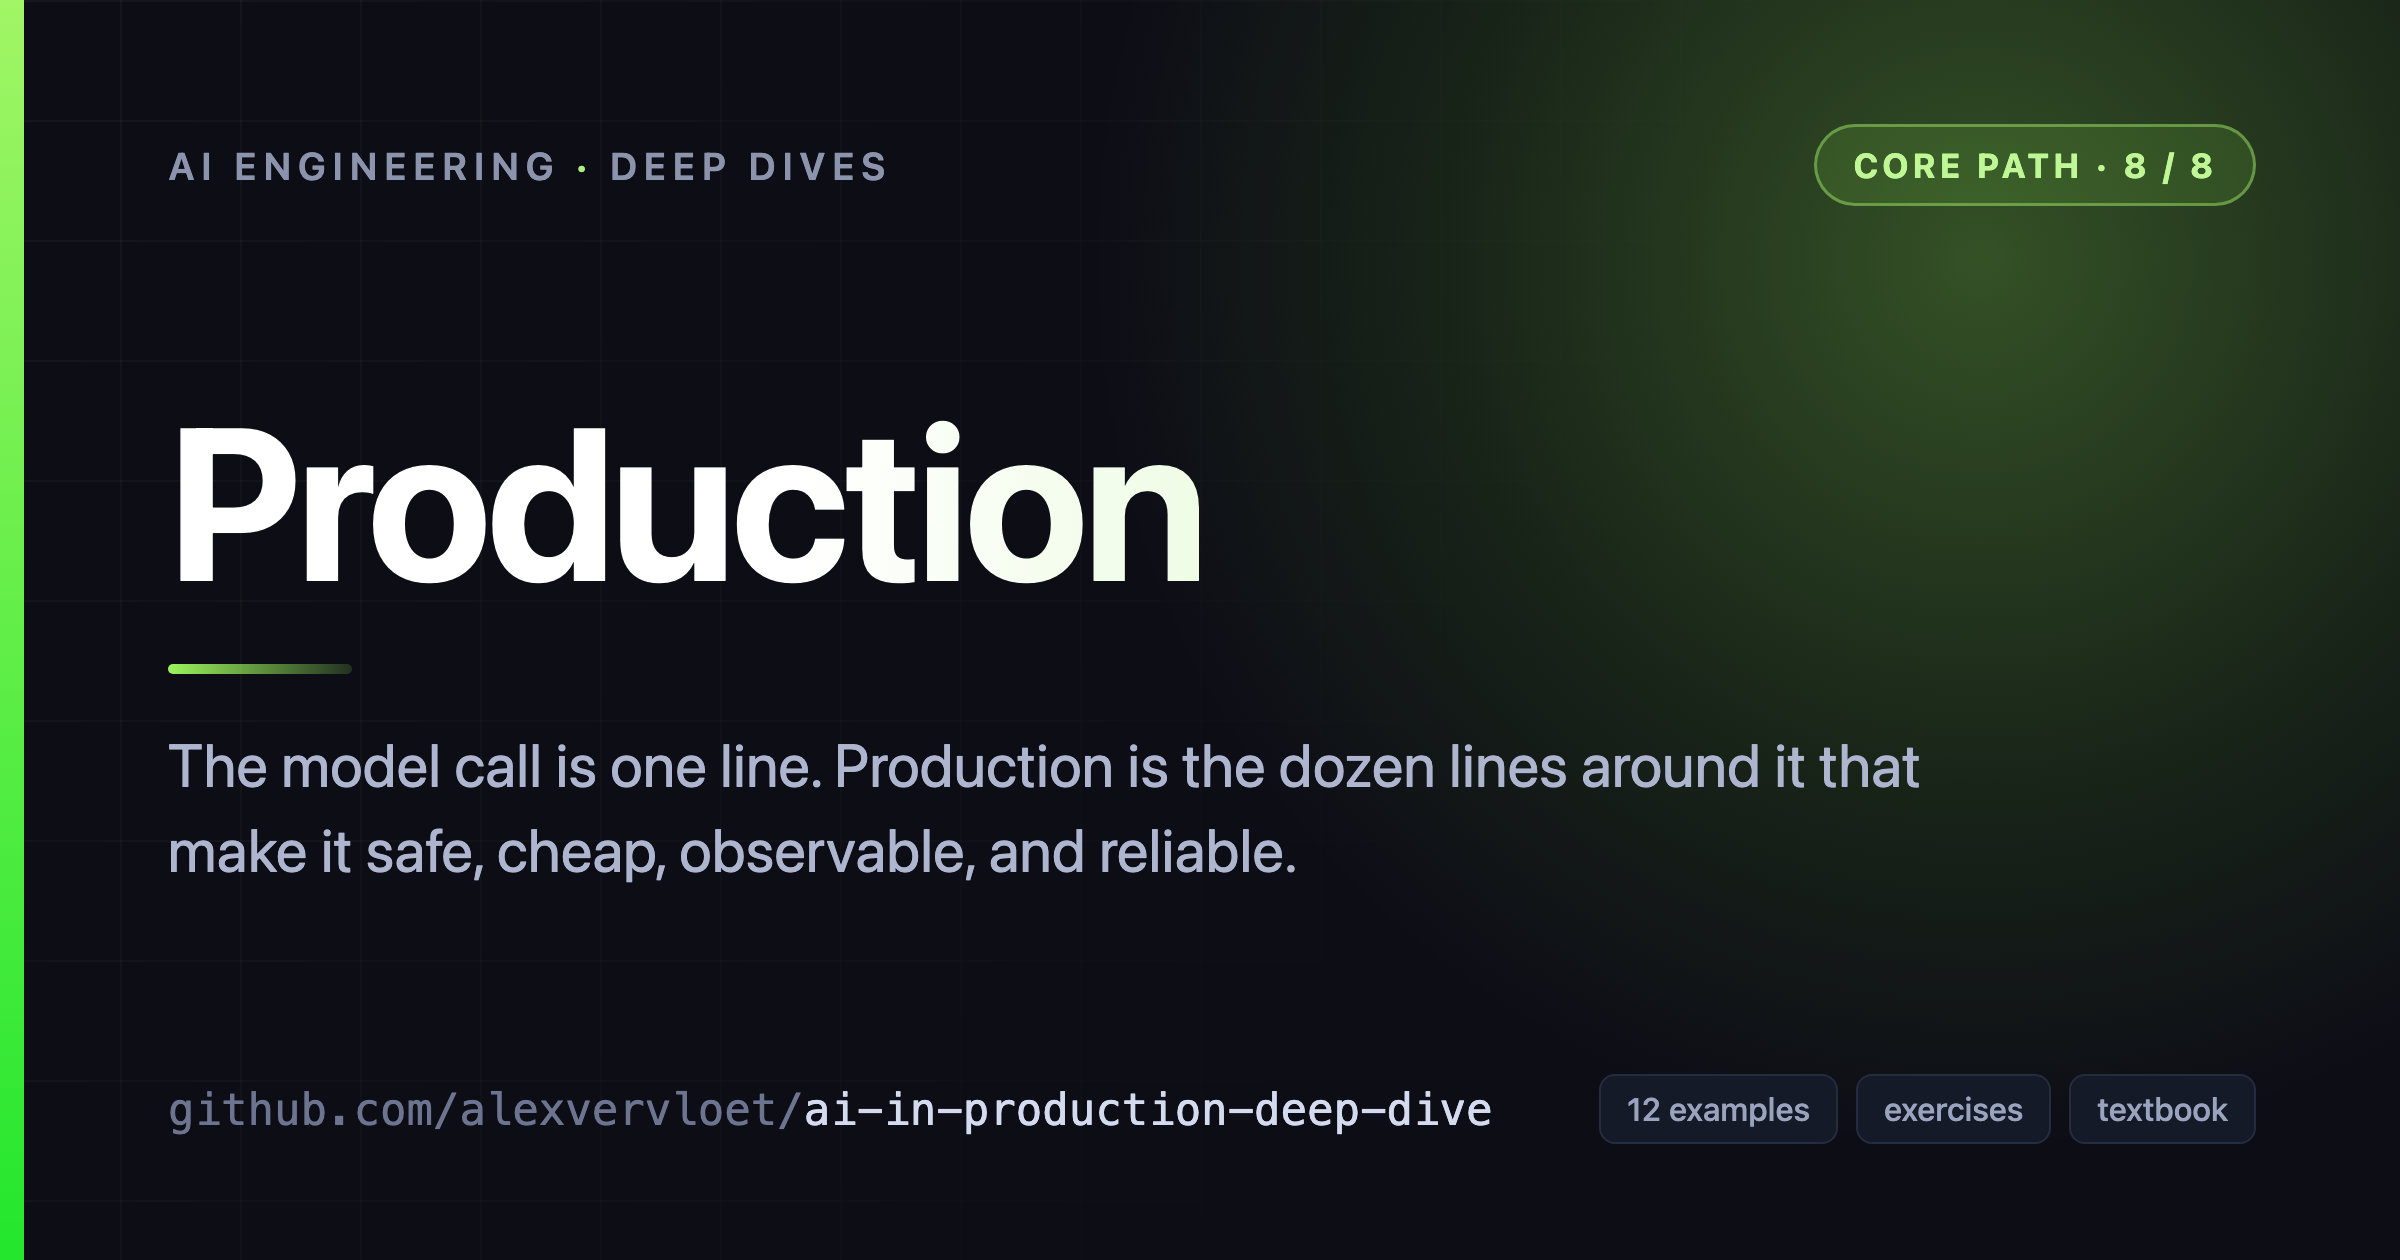
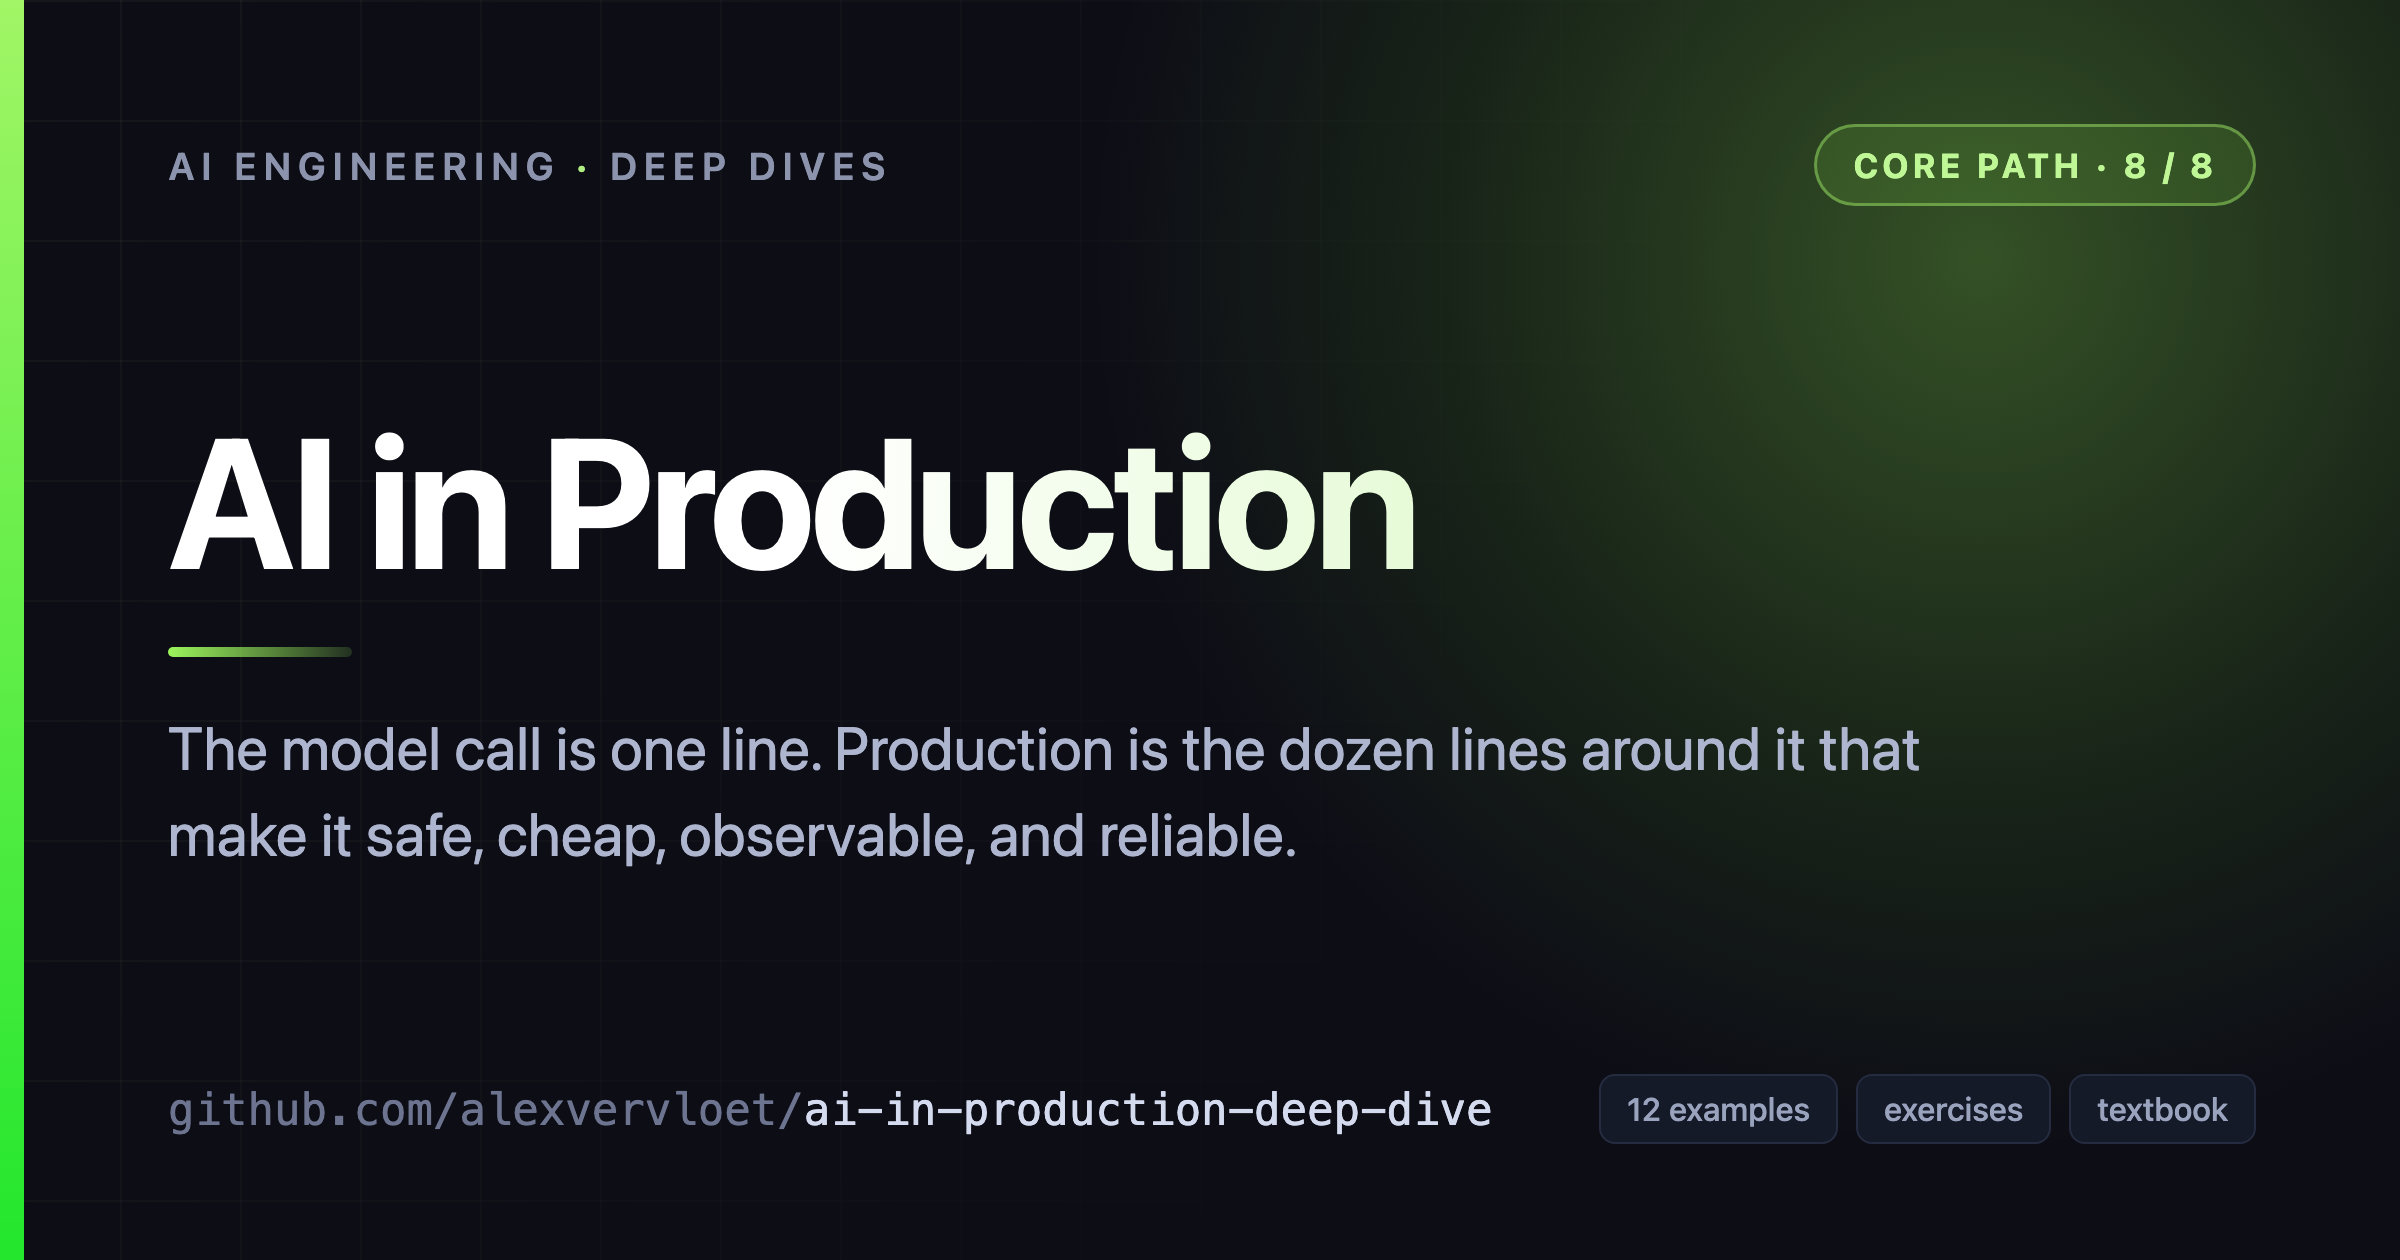
assets: name the dive on four cards that only named the topic
Production, Multimodal, Observability, and Professional Tools read as generic
topics out of the series context a shared card lands in.

Changed region(s): [[0.0625, 0.4952, 0.8125, 0.7119], [0.0625, 0.3405, 0.5938, 0.4643]]

diff --git a/assets/social/generate_cards.py b/assets/social/generate_cards.py
@@ -128,7 +128,7 @@ CARDS = [
         "core",
         "CORE PATH · 8 / 8",
         95,
-        "Production",
+        "AI in Production",
         "The model call is one line. Production is the dozen lines around it "
         "that make it safe, cheap, observable, and reliable.",
         ["12 examples", "exercises", "textbook"],
@@ -158,7 +158,7 @@ CARDS = [
         "bonus",
         "BONUS DIVE",
         320,
-        "Multimodal",
+        "Multimodal AI",
         "A multimodal model takes more than text. Put the right modality in "
         "the right slot, and mind the token cost.",
         ["10 examples", "exercises", "after: API dives"],
@@ -208,7 +208,7 @@ CARDS = [
         "bonus",
         "BONUS DIVE",
         200,
-        "Observability",
+        "AI Observability",
         "A prototype is judged once, a production system continuously. Watch "
         "quality as a trend: drift, regressions, alerting.",
         ["9 examples", "exercises", "after: Production"],
@@ -218,7 +218,7 @@ CARDS = [
         "bonus",
         "VOLUME 2",
         315,
-        "Professional Tools",
+        "AI Professional Tools",
         "Rebuild each from-scratch primitive with the tool professionals "
         "reach for, and measure both on the same eval.",
         ["7 chapters", "LiteLLM · LangGraph", "same-eval"],
